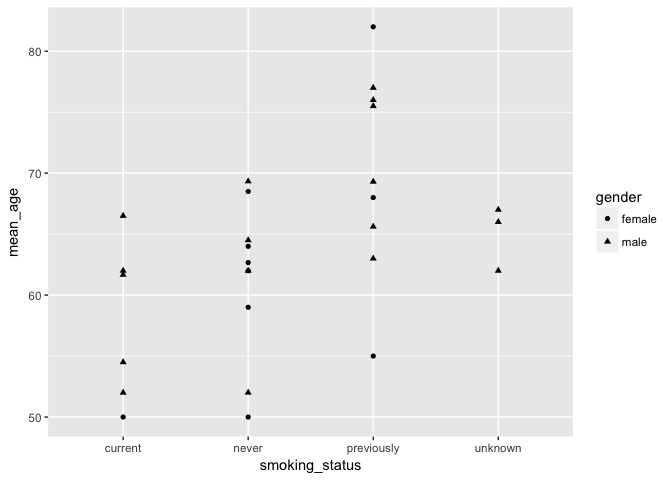
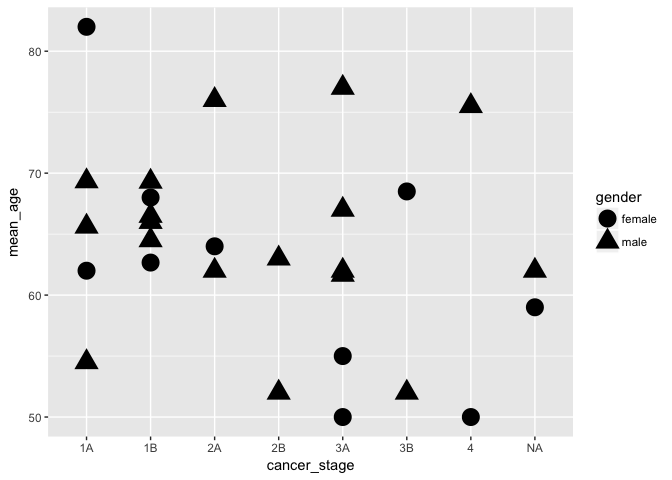
Final final knit

diff --git a/Analysis_Report_02_RNASeq.md b/Analysis_Report_02_RNASeq.md
@@ -1,20 +1,20 @@
-Analysis Report 2: Your Title Here
+Analysis Report 2: The effects of lung adenocarcinoma on younger patients
 ================
 Chelsea Noack
-November 10, 2017
+November 17, 2017
 
 Introduction
 ============
 
-Smoking is a prevalent habit with dire consequences. Evidence of smoking's effects became evident beginning as early as the 1930's. Since then, it is common knowledge. Not all lung cancers are the same. For example, non small cell lung adenocarcinoma (NSCLC) accounts for 85% of lung cancers. Of those who have NSCLC, only about 15% survive five years post-diagnosis (Ettinger *et al.*, 2010). Thus, not only does lung cancer clearly have a deadly consequence, but it is the most fatal cancer
+Smoking is a common habit with dire consequences. Evidence of smoking's effects became evident beginning as early as the 1930's. Since then, it is common knowledge. Not all lung cancers are the same. For example, non small cell lung adenocarcinoma (NSCLC) accounts for 85% of lung cancers. Of those who have NSCLC, only about 15% survive five years post-diagnosis (Ettinger *et al.*, 2010). Thus, not only does lung cancer have a deadly consequence, but it is the most fatal.
 
-But one component of lung cancer still leaves us worried. While the cancer is preventable by not having a tobacco habit, there is still a genetic component. In other words, even those who have never smoked can still get non small cell lung adenocarcinoma. Of the known carcinogens in cigarettes, they convert to reactive metabolites. If not inactivated, they can bind to cellular DNA and form adducts, a product of added molecules to create a distinct molecular species (Zienolddiny *et al.*, 2005). The large adducts which form typically get repaired, however researchers find that lung cancer patients have low DNA repair capacity. Zienolddiny et al. state that "variant DNA repair genotypes may alter susceptibility to lung cancer", indicating a genetic component within the repair mechanism, making certain persons more susceptible to lung cancer despite smoking or not smoking (2005).
+But one component of lung cancer still leaves us worried. While the cancer is preventable by not having a tobacco habit, there is still a genetic component. In other words, even those who have never smoked can still get non small cell lung adenocarcinoma. Of the known carcinogens in cigarettes, they convert to reactive metabolites. When inactivated, they bind to cellular DNA and form adducts. Adduct are products of added molecules to create a distinct molecular species (Zienolddiny *et al.*, 2005). Large adducts typically get repaired. However, researchers find that not only cancer patients have low DNA repair capacity. Zienolddiny et al. state that "variant DNA repair genotypes may alter susceptibility to lung cancer" (2005). This indicates a genetic component within the repair mechanism. Some genotypes make people more susceptible to lung cancer despite habits (2005).
 
-Thus, if smoking is not only caused by habits, but there is also a genetic component, it leads me to wonder if females and males differ in this genetic component? Can sex be a factor when it comes to the genetic quality of DNA repair mechanisms and thus carry on genes influencing the progression of lung cancer? In addition, will the age of certain females and males be a factor in terms of which stage of lung cancer they get diagnosed? For example, is it primarily younger non-smoker females/males with severe cases of lung cancer, or, more predictably, is it those whom are younger, non-smokers whom have stage 1?
+Many questions arise if we look into the genetic component of lung adenocarcinoma. For example, do females and males differ in this genetic component? Sex and gender cause many differences... can this difference also be cancer susceptibility? Can someone's inheritance and sex carry on genes influencing DNA repair pathways? Will the age of certain females and males factor into which stage of lung cancer they get diagnosed? Is it primarily older non-smoker females/males with severe cases of lung cancer? Or, less predictably, do younger, non-smokers have accelerated stages of cancer?
 
-These questions must take into account the anthropological effects of habits/genetics on females and males. In some countries, smoking is looked down upon more than others. Also in some countries, women and men are expected to have different habits. Thus, in order to answer these questions I will have to look at data from one area. In this case, studies done on Korean patients will be used in order to answer our questions. Korea is known for many prevalent cancers which are not pertained to the lunch, such as stomach, colon/rectal, and thyroid among both sexes. However, lung cancer is still the most deadly, accounting for 15,623 deaths in 2010 (Jung *et al.*, 2013). With this known, I will use data from the Seo et al. and Li et al. studies in order to better answer these questions connecting sex to the genetic components of lung cancer and its severity for non-smokers.
+Any answer must take into account geographical and societal factors. In some countries, smoking is less approved than others. Also in some countries, society expects women to smoke less than men. To answer these questions, I will have to look at data from one area. In this case, Korea. Korea has many cancers besides lung such as stomach, colon/rectal, and thyroid. All cancers are prevalent in both sexes. However, lung cancer is still the most deadly. Lung cancer accounts for 15,623 deaths in 2010 (Jung *et al.*, 2013). Because lung cancer is also the most fatal in Korea, my analysis can shed light on a broad, global understanding.
 
-I hypothesize that those whom are younger non-smokers will have lower cancer stages than those who are older smokers. In addition, I argue that females will have a higher genetic component than men (indicating cancer from non-smoking rather than smoking) given the cultural context.
+I will use data from studies done by Seo et al. (2012) and Li et al. (2015) to better connect sex to the genetic components of lung cancer. In addition, I will attempt to understand genetics linked cancer severity for non-smokers. I hypothesize that younger, female non-smokers will have earlier/treatable cancer stages. Older, smoker males will have higher later stage cancers. Also, females will have a higher genetic component than men. The results of the study could indicate an important shift of understanding NSCLC. Once the genetic component is better analyzed, future generations can benefit. Thus, decreasing the death rates by lung cancer amongst the human, global population.
 
 Methods
 =======
@@ -22,25 +22,25 @@ Methods
 Sample origin and sequencing
 ----------------------------
 
-The data comes from Seo et al.'s 2012 paper *The transcriptional landscape and mutational profile of lung adenocarcinoma*. Seo et al. took fresh surgical samples of normal and cancerous tissues from 200 Korean patients. The patients had primary lung adenocarcinoma and recently underwent lung resection. For their transcriptional study between smokers and non-smokers, which pertains to Li et al.'s study, they used about 70 of those 200 samples. The samples were normal and cancerous tissues from 34 smokers and 34 never-smokers. Within the smoking category was current smoking and those whom have smoked. They also recorded gender, cancer stage, and smoking status from the patients (Seo *et al.*, 2012).
+Seo et al. took fresh surgical samples of normal and cancerous tissues from 200 Korean patients. The patients had primary lung adenocarcinoma and recently underwent lung resection. They performed a transcriptional study between smokers and non-smokers. They took 68 of the 200 samples, normal and cancerous tissues from 34 smokers and 34 never-smokers. A category based on smoking habits categorized the patients; current, previously, or never. They also recorded gender, and cancer stage from the patients (Seo *et al.*, 2012).
 
-To sequence the samples, they did transcriptome sequencing combine with whole-exome and transcriptome sequencing. Transcriptome sequencing has a past history of detecting somatic mutations in cancer. The combination made their study the first large scale-study of lung adenocarcinoma using RNA sequencing (Seo *et al.*, 2012).
+They did transcriptome sequencing combine with whole-exome and transcriptome sequencing. Transcriptome sequencing has a past history of detecting somatic mutations in cancer. Their study the first large-scale study of lung cancer using RNAseq (Seo *et al.*, 2012).
 
-Li et al. (2015) downloaded Seo et al.'s RNAseq data from GEO, Gene Expression Omnibus. In doing so, they could perform a comprehensive pair-wise comparison analysis. From the data, they had 14 billion paired-end sequence reads ranging to 101 bp in length (Li *et al.*, 2015). They excluded the data from any patients under the age of 75 for better comparison. Once they confirmed a paired-nature of the RNA-seq data of normal vs. tumor tissue, they used Ensembl GRCh37 Tophat to align the reads to the human genome. To count the reads by genes, they used HTSeq (Li *et al.*, 2015). For the differential gene expression analysis, they used R Bioconductor edgeR. Next, Li et al. had to filter the data. Genes with 1 count per million (cpm) in atleast half the sample size were included. From there, we took their edited and filtered data for our analysis.
+Li et al. (2015) downloaded Seo et al.'s RNAseq data from GEO, the Gene Expression Omnibus. GEO is a database for high-throughput gene expression data. In doing so, they could perform a comprehensive pair-wise comparison analysis. From the data, they had 14 billion paired-end sequence reads ranging to 101 bp in length (Li *et al.*, 2015). Next, they confirmed a paired-nature of the RNA-seq data of normal vs. tumor tissue. Once confirmed, they used Ensembl GRCh37 Tophat to align the reads to the human genome. To count the reads by genes, they used HTSeq (Li *et al.*, 2015). For the differential gene expression analysis, they used R Bioconductor edgeR. Finally, Li et al. had to filter the data. They included genes with 1 count per million (cpm) in at least half the sample size. From there, we took their edited and filtered data for our analysis.
 
 Computational
 -------------
 
-First, Dr. Napauka Zimmerman downloaded the files from the NCBI Sequence Read archive under the study number ERP001058. Downloaded the extensive amount of data was made easier by the BioMartr package. Biomartr is a package in CRAN which helps retrieve metagenomic data and functional annotation retrieval. It is more polished than NCBI. Next, the files were converted from SRA to fastq.
+First, Dr. Napauka Zimmerman downloaded the files (ERP001058), which came from the NCBI Sequence Read archive. BioMartr made it easier to download the large amounts of data. Biomartr is a package in CRAN. It retrieves metagenomic data and functional annotation retrieval. It is more polished than NCBI.
 
-Because the files were so massive, Zimmerman had to use Sailfish. Sailfish is a package which quantifies the abundance of previously annotated RNA isoforms from RNA-seq data, and in doing so avoids mapping reads (Patro *et al.*, 2014). This makes it 20 times faster than alternative methods and still maintains a level of accuracy. This is ideal for processing large amounts of sequencing reads. Once the files were processed, they were put through fastQC, a quality checking program, which eliminated many reads which were very low quality. The QC reports are helpful to see how viable each sequence is for analysis; if the majority of the sequence is above a 30 score, then we consider it to be sequenced well. Typically, the 3' end will deteriorate, which is normal.
+Next, the files converted from SRA to fastq. Because the files were so massive, Zimmerman had to use Sailfish. Sailfish is a package which quantifies the amount of already annotated RNA isoforms from RNA-seq data. In doing so, it avoids mapping reads (Patro *et al.*, 2014). This makes Sailfish 20 times faster than alternative methods, while maintaining accuracy. This is ideal for processing large amounts of sequencing reads.
 
-The next step was to put the files through paired-end Trimmomatic. Specifically, it clipped off Illumina adapters and any reads with a quality score less than 20. The trimmed, quality-checked sequences then needed to be aligned. Sailfish efficiently aligned the sequences using k-mers. As mentioned before, Sailfish is fast; each sample is parsed out. 88 cores were used in an overnight run. Finally, with parsed sequences efficiently aligned, Zimmerman built the tables. Within our table, each row is a human gene name and the column is different samples in all the groups. The table was melted so it included the metadata and original data. Dplyr and ggplot help us analyze the data from the melted tables.
+Zimmerman processed the files. Then, the files were quality checked. FastQC is a quality checking program which eliminates low quality reads. QC reports are helpful to see how viable each sequence is for analysis. If the majority of the sequence is above a 30 score, then it's sequenced well. Typically, the 3' end will deteriorate, which is normal.
+
+The next step was to put the files through paired-end Trimmomatic. Trimmomatic clipped off Illumina adapters and reads with quality scores less than 20. Once trimmed, Zimmerman aligned the sequences using Sailfish. Sailfish aligns sequences using k-mers. As mentioned before, Sailfish is fast. The program parsed each sample. 88 cores were used in an overnight run in order to perform the alignment. Finally, with parsed sequences aligned, Zimmerman built the tables. Within our table, each row is a human gene name and the column is different samples in all the groups. Zimmerman "melted" the table so it included the metadata and original data. Dplyr and ggplot help us analyze the data from the melted tables.
 
 Results
 =======
-
-In addition to a minimum of 4-5 figures/tables (and associated captions), you should include sufficient text in this section to describe what your findings were. Remember that in the results section you just describe what you found, but you don't interpret it - that happens in the discussion.
 
 | cancer\_stage | gender |  mean\_age|
 |:--------------|:-------|----------:|
@@ -101,9 +101,11 @@ In addition to a minimum of 4-5 figures/tables (and associated captions), you sh
 
 ![](Analysis_Report_02_RNASeq_files/figure-markdown_github-ascii_identifiers/make-barplot-of-smokingstatus-1.png)
 
-**Figure 2**: Using a figure to visualize smoking status between females and males based on average ages.
+**Figure 2**: A figure to visualize smoking status between females and males based on average ages.
 
 ![](Analysis_Report_02_RNASeq_files/figure-markdown_github-ascii_identifiers/make-pointplot-of-smokingstatus-1.png)
+
+**Figure 3**: The figure shows the abundance of females and males within certain cancer stages and mean ages. The clustering effect makes it visually better to understand than other figures.
 
 | gender | genename |  mean\_count|
 |:-------|:---------|------------:|
@@ -123,22 +125,46 @@ In addition to a minimum of 4-5 figures/tables (and associated captions), you sh
 | female | RNA28S5  |     58079.55|
 | male   | FTH1     |     52390.78|
 
-**Table 3**: Gene names in top 15.
-
-![](Analysis_Report_02_RNASeq_files/figure-markdown_github-ascii_identifiers/make-barplot-of-highly-expressed-genes-1.png)
-
-**Figure 3**: Genes by gender
+**Table 3**: A table with the top 15 genes found within the data's sampling of females and males.
 
 ![](Analysis_Report_02_RNASeq_files/figure-markdown_github-ascii_identifiers/make-boxplot-of-highly-expressed-genes-1.png)
 
-**Figure 4**:
+**Figure 4**: The figure shows the amount of the top 15 genes within the meta data of women and males correlated to smoking status and age of diagnosis.
+
+![](Analysis_Report_02_RNASeq_files/figure-markdown_github-ascii_identifiers/make-barplot-of-highly-expressed-genes-1.png)
+
+**Figure 5**: The figure shows the top 15 genes sorted by the sex/gender and mean count of the genes.
 
 Discussion
 ==========
 
-1-2 pages is 500 to 1,000 words.
+**Findings**:
 
-Add around 1-2 pages interpreting your results and considering future directions one might take in analyzing these data.
+My analysis of the correlation between sex/gender and cancer proclivity, using the Seo et al. and Li et al. data, shows results opposite of my hypothesis.
+
+We see from the data that a more young, female patients have later stage lung cancer. Older female patients have early stage lung cancer. Odd. Yet, younger males had early stage lung cancers and older males had late stage lung cancer. Both females and males were similar for stages 1A, 1B and 2A (Figure 1).
+
+First, the findings with the males makes sense, as it goes along with my hypothesis. I claimed that as you get older, the more likely you are to have later stage lung cancer than younger people. Uncontrolled cell growth and poor repair mechanisms increase as you age. The process is a basic consequence of senescence. We see in the data set that the oldest males having stage 4 lung cancer (Table 1, Figure 1). But we do not see this pattern all across for males.
+
+In fact, we see the average 69 year old male has stage 2A and 68 year old male has stage 1B. We predict that males in stage 3B would be the eldest, but in fact they were the lowest mean age, 52 years old (Table 1). Females face the same issue, except for stage 4. Thus, it's important to look at smoking status.
+
+Table 2 shows that for the young female Korean patients whom had stage 4 claim to never smoke. It would be far too simple to argue that it's based on sampling bias. Rather, this is a crucial part of my analysis which will developed later. The youngest males with stage 3B cancer also claim to never smoke (Table 2). Interesting. We see a clear connection between never smoking and higher stages of lung cancer in young patients.
+
+Noteably, in the accompanying Figure 2, we see females and males are similar in age for never smokers. This could be due to the sampling within the hospital.. regardless, the statistic is strange. In Figure 3, a more distinct cluster of both males and females around the same age are within similar cancer stages. The similar stages are 1B, N/A (differing from the N/A smoking status category), and 2A (Figure 3). We see the most drastic differences in mean age and cancer stage at, again, stage 4 and 3B. 1A also has variance between men and women, but not as significantly.
+
+We see from my analysis that being young does not mean you are exempt from later stage lung cancer. This leads me to ask which genes are responsible for the trend, which isn't an easy undertaking. In Figure 4, we attempt to find genes more common in certain age groups. However, we see that throughout most ages, all genes are playing a part. For never smokers, we see a smaller range than current smokers. We also see a slight skew to the left, identifying more outliers within the younger age groups. This does not help our analysis. If anything, the skew proposes new questions which need further research. Figure 4 does help us identify that most genes occur in lung cancer patients around 60-70 years old.
+
+Lastly, in Figure 5 we see a strange occurrence of three genes only in males. The genes are FN1, FTH1, and FTL. FN1 gene encodes for a heavy weight glycoprotein. It is crucial for the metastasis of melanoma cells (Ridley, 2000). FTH1 gene encodes for an iron storage factor. represses ferritin-H expression. Its up-regulation stimulates apoptosis triggered by the tumor necrosis factor (TNF) (Pham *et al.*, 2004). Phenotypes resulting from the FTL gene depends on where its mutation is. The gene most connected with iron regulation and cellular function (Sammarco *et al.*, 2008).
+
+Two genes found here might influence cancer, but I'm apprehensive to use these findings. Genes, generally, are in many processes. These genes might be indicative of male cancer patients, but they also might be indicative of general Korean male health. Thus, while the findings are interesting, I will not develop them further here.
+
+**Conclusion**:
+
+Symptoms are more clear in later stage cancer. This could be the reason we see more people with later stage despite age difference. The genetic component might be stronger, or as strong, as the environmental component.
+
+In a twin study done by Ahlbom et al., smoking and genetics were not completely distinct (1997). The habit of smoking often affects familial patterns of lung cancer in twins. The large amount of nonsmoker females with lung cancer indicates another worry. That is that women are getting secondhand smoke from their partners. In Korea, Jee et al. found that the rate of lung cancer is non smoking women was higher if their husbands smoked. This was due to its secondhand nature (1999). The results are jarring. We cannot say this is the answer, but we need more genetic and anthropological studies.
+
+The findings found from more research could end up benefitting people around the world with lung cancer. The power of secondhand smoke, from the data, appears to be immense. Equally immense appears to be the genetic component of passing on carcinogens to your offspring. The knowledge found here and in similar studies has the propensity to save future lives.
 
 Sources Cited
 =============
@@ -150,6 +176,12 @@ Jung,K.-W. *et al.* (2013) Cancer statistics in korea: Incidence, mortality, sur
 Li,Y. *et al.* (2015) RNA-seq analysis of lung adenocarcinomas reveals different gene expression profiles between smoking and nonsmoking patients. *Tumor Biology*, **36**, 8993–9003.
 
 Patro,R. *et al.* (2014) Sailfish enables alignment-free isoform quantification from rna-seq reads using lightweight algorithms. *Nature biotechnology*, **32**, 462–464.
+
+Pham,C.G. *et al.* (2004) Ferritin heavy chain upregulation by nf-*κ*b inhibits tnf*α*-induced apoptosis by suppressing reactive oxygen species. *Cell*, **119**, 529–542.
+
+Ridley,A. (2000) Cancer: Molecular switches in metastasis. *Nature*, **406**, 466–467.
+
+Sammarco,M.C. *et al.* (2008) Ferritin l and h subunits are differentially regulated on a post-transcriptional level. *Journal of Biological Chemistry*, **283**, 4578–4587.
 
 Seo,J.-S. *et al.* (2012) The transcriptional landscape and mutational profile of lung adenocarcinoma. *Genome research*, **22**, 2109–2119.
 
